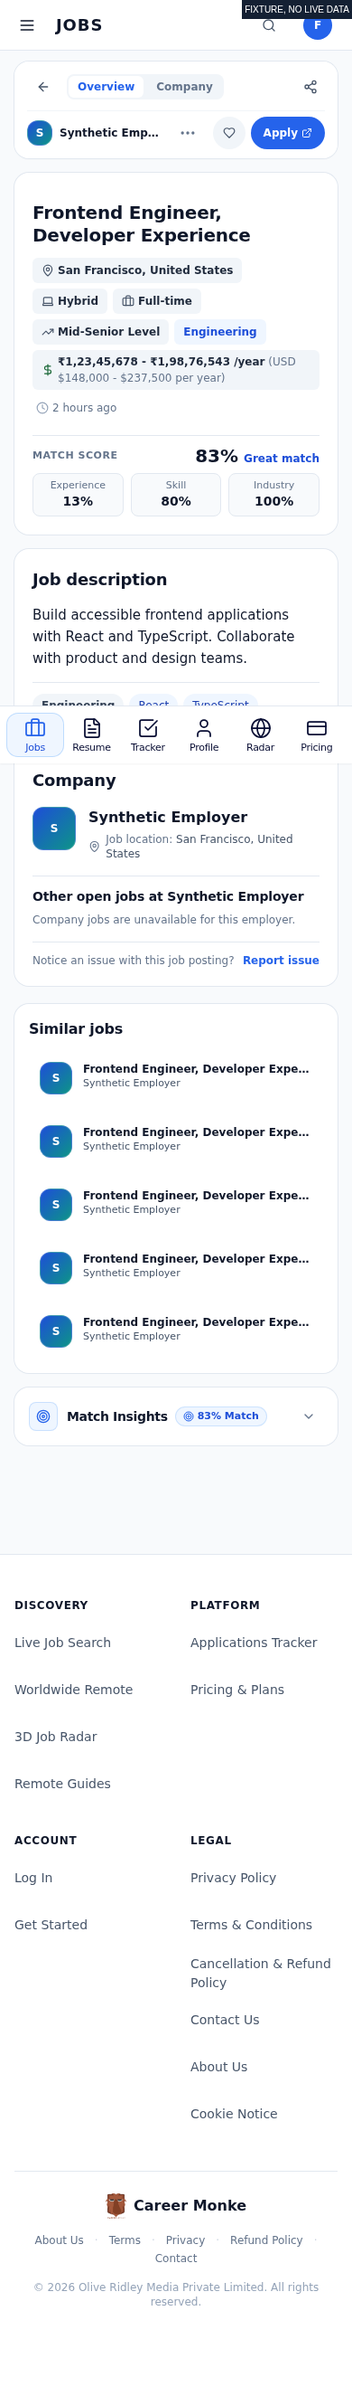
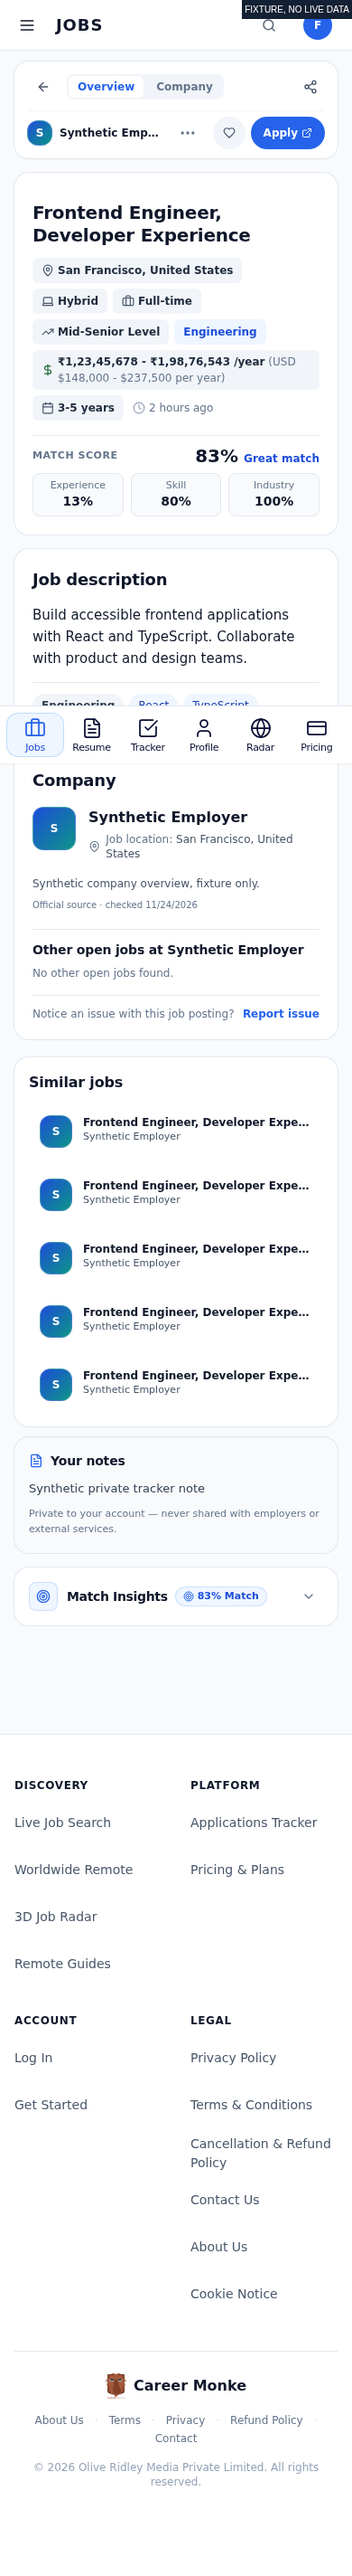
refresh open detail scores and align exact brand guards with approved spelling

diff --git a/scripts/mobile-715/mocks.tsx b/scripts/mobile-715/mocks.tsx
@@ -3,9 +3,9 @@ export const user={id:'fixture-user',email:'fixture@example.test',user_metadata:
 export const prefs={roles:['Frontend Engineer'],categories:['engineering'],employmentTypes:['full-time'],locations:['United States'],remotePreference:'remote',experienceLevel:'mid',onboardingCompleted:true,dailyDigestOptIn:false,updatedAt:'2026-11-24'};
 export const candidate={name:'Fixture',email:'fixture@example.test',phone:'',headline:'Frontend Engineer',summary:'Frontend applications',skills:['React','TypeScript'],experience:[],education:[],certifications:[],confirmedAt:'2026-11-24',updatedAt:'2026-11-24'};
 const state=()=>(window as any).__fixtureState||new URLSearchParams(location.search).get('state')||'populated';
-export const job={id:'51dbea38-a70d-4de8-a940-f18f0eca6ed7',title:'Frontend Engineer, Developer Experience',company:'Synthetic Employer',location:'San Francisco, United States',country:'US',category:'engineering',remote:true,remoteScope:'hybrid',type:'Full-time',directSource:true,applyUrl:'https://example.test/apply',salary:'₹1,23,45,678 - ₹1,98,76,543 /year',salary_original:'USD $148,000 - $237,500 per year',description:'Build accessible frontend applications with React and TypeScript. Collaborate with product and design teams.',skills:['React','TypeScript'],date:'Today',postedAt:'2026-11-24T06:00:00Z',matchScore:83,scoreRevision:'fixture.v1',logoUrl:'https://protected.example.test/logo.png'};
-export async function getLiveJobs(options:any){(window as any).__feedCalls=[...((window as any).__feedCalls||[]),options.page];(window as any).__feedDetails=[...((window as any).__feedDetails||[]),{page:options.page,search:options.search,signal:options.signal}];if(options.page>1&&state()==='deferred')await new Promise<void>(r=>{(window as any).__resolvePage=r;});if(options.signal?.aborted)throw new DOMException('aborted','AbortError');if(state()==='slow'){await new Promise(r=>setTimeout(r,350));}if(state()==='loading')return new Promise(()=>{});if(state()==='error')return {jobs:[],totalCount:0,isDegraded:true};const page=options.page||1;if(page>1&&state()==='page-error')throw Error('Fixture next-page error');const jobs=state()==='empty'?[]:Array.from({length:page===1?25:5},(_,i)=>({...job,matchScore:(window as any).__profileRevision?61:83,scoreRevision:(window as any).__profileRevision?'fixture.v2':'fixture.v1',id:i===0?job.id:`fixture-${page}-${i===4&&page>1?3:i}`}));return {jobs,totalCount:30,hasNextPage:state()==='paging'||state()==='page-error'||state()==='slow'||state()==='deferred'?page<3:false,nextCursor:`fixture-${page}`};}
-export async function getLiveJobById(){return state()==='unknown'?null:{...job,isExpired:state()==='expired',status:state()==='expired'?'expired':'active'};}
+export const job={id:'51dbea38-a70d-4de8-a940-f18f0eca6ed7',title:'Frontend Engineer, Developer Experience',company:'Synthetic Employer',location:'San Francisco, United States',country:'US',category:'engineering',remote:true,remoteScope:'hybrid',type:'Full-time',directSource:true,applyUrl:'https://example.test/apply',salary:'₹1,23,45,678 - ₹1,98,76,543 /year',salary_original:'USD $148,000 - $237,500 per year',companyProfile:{companyId:'synthetic-company',facts:{overview:{value:'Synthetic company overview, fixture only.',sourceUrl:'https://example.test/about',sourceKind:'official_site',retrievedAt:'2026-11-24'}},leadership:[],news:[],jobs:{status:'ready',jobs:[]},freshness:'fresh'},experience:'3-5 years',trackerNotes:'Synthetic private tracker note',description:'Build accessible frontend applications with React and TypeScript. Collaborate with product and design teams.',skills:['React','TypeScript'],date:'Today',postedAt:'2026-11-24T06:00:00Z',matchScore:83,scoreRevision:'fixture.v1',logoUrl:'https://protected.example.test/logo.png'};
+export async function getLiveJobs(options:any){(window as any).__feedCalls=[...((window as any).__feedCalls||[]),options.page];(window as any).__feedDetails=[...((window as any).__feedDetails||[]),{page:options.page,search:options.search,signal:options.signal}];if(options.page>1&&state()==='deferred')await new Promise<void>(r=>{(window as any).__resolvePage=r;});if(options.signal?.aborted)throw new DOMException('aborted','AbortError');if(state()==='slow'){await new Promise(r=>setTimeout(r,350));}if(options.search==='fixturezero')return {jobs:[],totalCount:0,hasNextPage:false};if(state()==='loading')return new Promise(()=>{});if(state()==='error')return {jobs:[],totalCount:0,isDegraded:true};const page=options.page||1;if(page>1&&state()==='page-error')throw Error('Fixture next-page error');const jobs=state()==='empty'?[]:Array.from({length:options.search==='fixtureshort'?1:page===1?25:5},(_,i)=>({...job,matchScore:(window as any).__profileRevision?61:83,scoreRevision:(window as any).__profileRevision?'fixture.v2':'fixture.v1',id:i===0?job.id:`fixture-${page}-${i===4&&page>1?3:i}`}));return {jobs,totalCount:30,hasNextPage:state()==='paging'||state()==='page-error'||state()==='slow'||state()==='deferred'?page<3:false,nextCursor:`fixture-${page}`};}
+export async function getLiveJobById(){return state()==='unknown'?null:{...job,matchScore:(window as any).__profileRevision?61:83,scoreRevision:(window as any).__profileRevision?'fixture.v2':'fixture.v1',isExpired:state()==='expired',status:state()==='expired'?'expired':'active'};}
 export function isEarlyApplicant(){return true;}
 export const capJobsPerCompany=(j:any)=>j;
 export const getAuthUser=async()=>state()==='guest'?null:user;
@@ -13,8 +13,8 @@ export const getUserPreferences=async()=>({...prefs,updatedAt:(window as any).__
 export const signOutUser=async()=>{};
 export const getCandidateProfile=async()=>candidate;
 export const getProAccessStatus=async()=>({isPro:state()!=='guest'&&state()!=='free',isDefinitive:true,source:'fixture'});
-export const getTrackedApplications=async()=>state()==='applied'?[{id:'app1',jobId:job.id,title:job.title,company:job.company,stage:'applied',status:'applied'}]:[];
-export const isMatchingTrackerJob=()=>false;
+export const getTrackedApplications=async()=>state()==='applied'?[{id:'app1',jobId:job.id,title:job.title,company:job.company,stage:'applied',status:'applied',notes:'Synthetic private tracker note'}]:[];
+export const isMatchingTrackerJob=(j:any,a:any)=>j.id===a.jobId;
 export const addApplicationToTracker=async()=>{};export const removeApplicationFromTracker=async()=>{};export const updateApplicationStage=async()=>{};export const quickTrackJob=async()=>{};
 export const getValidReturnUrl=(s:string,f='/jobs')=>s?.startsWith('/')&&!s.startsWith('//')?s:f;
 export const createClient=()=>({auth:{getSession:async()=>({data:{session:null}}),signInWithPassword:async()=>({error:{code:'invalid_credentials'}}),signUp:async()=>({data:{session:null}}),signInWithOAuth:async()=>({}),resetPasswordForEmail:async()=>({}),onAuthStateChange:()=>({data:{subscription:{unsubscribe(){}}}})}});

diff --git a/tests/landing-ssampe-parity.ts b/tests/landing-ssampe-parity.ts
@@ -40,7 +40,7 @@ const CELLS: [string, string][] = [
   ["From verified employers", "Filter jobs by role, location and work mode"],
   ["Seen by recruiters early", "Apply on the employer's careers page"],
 ];
-const LOWER_ORDER = ["CareerMonke in numbers", "Companies hiring now (sample)", "cmp-h", "feat-h", "rv-h", "fd-h", "q-h", "w-h", "cta-h", "footer", "sb"];
+const LOWER_ORDER = ["Career Monke in numbers", "Companies hiring now (sample)", "cmp-h", "feat-h", "rv-h", "fd-h", "q-h", "w-h", "cta-h", "footer", "sb"];
 
 // Owner-requested live content (careermonke.com snapshot): review records, orders, founder card, header logo.
 type Review = { id: string; name: string; initials: string; location: string; quote: string; avatar: string; avatarSha256: string };
@@ -52,11 +52,13 @@ const LIVE: {
   headerLogo: { src: string; sha256: string; natural: number[]; linkLabel: string };
   unchanged: { favicon: { path: string; sha256: string } };
 } = JSON.parse(read("tests/landing-ssampe-parity.live-content.json"));
+LIVE.founder.alt = LIVE.founder.alt.replace("CareerMonke", "Career Monke");
+LIVE.founder.role = LIVE.founder.role.replace("CareerMonke", "Career Monke");
 const REV = Object.fromEntries(LIVE.reviews.map((r) => [r.id, r]));
 const sha256 = (buf: Buffer) => crypto.createHash("sha256").update(buf).digest("hex");
 const FOUNDER_BIO = [
   "Growing up in the US and living in India showed me the friction of job hunting is universal. Broken software discards qualified people, and legacy sites make every role a cattle call.",
-  "I built CareerMonke to cut through the noise, give candidates leverage back, and land your story directly with real people without the unnecessary hollow hustle rhetoric.",
+  "I built Career Monke to cut through the noise, give candidates leverage back, and land your story directly with real people without the unnecessary hollow hustle rhetoric.",
 ];
 // The three restored 3386250 sections replaced by live content, rebuilt here from the fixture (HTML form).
 const liveCard = (cls: string, by: string, size: number, r: Review, hidden: boolean) =>
@@ -138,7 +140,7 @@ function check(x: Input) {
   // uses the approved ssampe@3386250 ascending m/a/x/x treatment (same words, accessible name on the h1).
   const topBody = topSrc
     .match(/<body>([\s\S]*?)<script>/)![1]
-    .replace(CM_BADGE, '<a href="#" class="brand" aria-label="CareerMonke home"><img class="brand-logo" src="/careermonke-logo.png" alt="" width="617" height="749">CareerMonke</a>')
+    .replace(CM_BADGE, '<a href="#" class="brand" aria-label="Career Monke home"><img class="brand-logo" src="/careermonke-logo.png" alt="" width="617" height="749">Career Monke</a>')
     .replace(
       SRC_H1,
       '<h1 aria-label="Start jobmaxxing with AI">Start <span class="nw">job<span class="mx"><span class="m1" aria-hidden="true">m</span><span class="m2" aria-hidden="true">a</span><span class="m3" aria-hidden="true">x</span><span class="m4" aria-hidden="true">x</span></span>ing</span> with&nbsp;AI</h1>'
@@ -155,7 +157,7 @@ function check(x: Input) {
   assert.match(top, /<p className="kicker">Skip LinkedIn competition<\/p>/, "mobile kicker line must be present");
   assert.match(
     squash(top),
-    /<a href="#" className="brand" aria-label="CareerMonke home"> ?<img className="brand-logo" src="\/careermonke-logo\.png" alt="" width="617" height="749" ?\/> ?CareerMonke ?<\/a>/,
+    /<a href="#" className="brand" aria-label="Career Monke home"> ?<img className="brand-logo" src="\/careermonke-logo\.png" alt="" width="617" height="749" ?\/> ?Career Monke ?<\/a>/,
     "header must use the real CareerMonke logo (617x749, decorative alt, link named 'CareerMonke home')"
   );
   assert.ok(!top.includes("brand-mark"), "header CM badge must be gone");
@@ -177,6 +179,7 @@ function check(x: Input) {
     assert.ok(a >= 0 && want.indexOf(start, a + 1) < 0, `fixture section must exist once: ${start}`);
     want = want.slice(0, a) + build() + want.slice(want.indexOf("</section>", a) + "</section>".length);
   }
+  want = want.replace(/CareerMonke/g, "Career Monke"); // Owner item2, spelling only, all other copy remains exact.
   assert.deepEqual(words(lower), words(want), "lower page copy must match 3386250 except the five CareerMonke Way cells and the live review/founder content");
   assert.deepEqual(attrs(lower, "className"), attrs(want, "class"), "lower page classes must match 3386250");
   const wantHrefs = attrs(want, "href").map((h) => h.replace(/^https:\/\/careermonke\.com\//, "/"));
@@ -228,7 +231,7 @@ function check(x: Input) {
   assert.ok(!/<dl\b/.test(fdSec), "founder stat row must be removed");
 
   // --- 3d. unchanged: footer logo and favicon ---
-  assert.match(squash(lower), /<img src="\/careermonke-logo\.png" alt="CareerMonke" width="66" height="80" loading="lazy" \/>/, "footer monkey logo must be unchanged");
+  assert.match(squash(lower), /<img src="\/careermonke-logo\.png" alt="Career Monke" width="66" height="80" loading="lazy" \/>/, "footer monkey logo must be unchanged");
   const fav = x.asset(LIVE.unchanged.favicon.path);
   assert.ok(fav && sha256(fav) === LIVE.unchanged.favicon.sha256, "favicon must be unchanged");
 

diff --git a/scripts/test-landing-comparison-section.ts b/scripts/test-landing-comparison-section.ts
@@ -43,8 +43,8 @@ async function runTests() {
   // 1. Heading
   console.log("Test 1: Heading & comparison section wrapper...");
   assert.ok(
-    pageSrc.includes("The Usual Grind vs The CareerMonke Way"),
-    "Must include heading 'The Usual Grind vs The CareerMonke Way'"
+    pageSrc.includes("The Usual Grind vs The Career Monke Way"),
+    "Must include heading 'The Usual Grind vs The Career Monke Way'"
   );
   assert.ok(
     pageSrc.includes('id="vs"'),
@@ -54,7 +54,7 @@ async function runTests() {
 
   // 2. All 5 Comparison Rows
   console.log("\nTest 2: Verifying 5 comparison criteria rows...");
-  // Usual Grind column unchanged; only the five CareerMonke Way cells were rewritten (owner request).
+  // Usual Grind column unchanged; only the five Career Monke Way cells were rewritten (owner request).
   const expectedRows = [
     ["800+ applicants per listing", "Jobs matched to your resume"],
     ["Hours tailoring every bullet", "See your percentage match score"],
@@ -71,12 +71,12 @@ async function runTests() {
   const cells = Array.from(pageSrc.matchAll(/<span className="vx">\s*([^<]*?)\s*<\/span>/g), (m) => m[1]);
   assert.deepStrictEqual(cells, expectedRows.flat(), "Comparison cells must be exactly the five rows above, in order");
   for (const old of ["Under 20 applicants, direct", "1-tap ATS-matched resume", "Instant keyword match score", "From verified employers", "Seen by recruiters early"]) {
-    assert.ok(!pageSrc.includes(old), `Replaced CareerMonke cell must be gone: "${old}"`);
+    assert.ok(!pageSrc.includes(old), `Replaced Career Monke cell must be gone: "${old}"`);
   }
   for (const monke of expectedRows.map((r) => r[1])) {
     assert.ok(
       !/\bAI\b|ATS|interview|guarantee|applicants?\b|\d+\s*minutes?|instant|faster|early/i.test(monke),
-      `CareerMonke cell must not make AI-resume, interview, guarantee, applicant-count or speed claims: "${monke}"`
+      `Career Monke cell must not make AI-resume, interview, guarantee, applicant-count or speed claims: "${monke}"`
     );
   }
   // Same five-row layout and icons: 10 cells, 10 icons, 5 ✕ and 5 ✓ badges.
@@ -84,7 +84,7 @@ async function runTests() {
   assert.strictEqual((vsTable.match(/<tr>/g) || []).length, 6, "Comparison must keep 1 header row + 5 body rows");
   assert.strictEqual((vsTable.match(/className="vi"/g) || []).length, 10, "Comparison must keep all 10 icons");
   assert.strictEqual((vsTable.match(/className="vb no"/g) || []).length, 5, "Usual column keeps 5 ✕ badges");
-  assert.strictEqual((vsTable.match(/className="vb ok"/g) || []).length, 5, "CareerMonke column keeps 5 ✓ badges");
+  assert.strictEqual((vsTable.match(/className="vb ok"/g) || []).length, 5, "Career Monke column keeps 5 ✓ badges");
   console.log("  -> [PASS-LOCAL] All 5 comparison criteria rows verified with 100% fidelity.");
 
   // 3. No Heavy GIF in page.tsx (Performance Rule)

diff --git a/scripts/test-error-boundaries.ts b/scripts/test-error-boundaries.ts
@@ -130,7 +130,7 @@ async function runTestSuite() {
   assert.ok(rootMarkup.includes("Something went wrong"), "Root error must show title");
   assert.ok(rootMarkup.includes("Try again"), "Root error must include 'Try again' button");
   assert.ok(rootMarkup.includes("Back to Homepage"), "Root error must include home link");
-  assert.ok(rootMarkup.includes("CareerMonke"), "Root error must display CareerMonke branding");
+  assert.ok(rootMarkup.includes("Career Monke"), "Root error must display Career Monke branding");
   assert.ok(!rootMarkup.includes("secret-internal.ts"), "Root error MUST NOT leak stack trace");
   assert.ok(!rootMarkup.includes("Component.render"), "Root error MUST NOT leak stack trace frames");
   console.log("  -> [PASS-LOCAL] app/error.tsx renders branded fallback without stack traces.");
@@ -144,7 +144,7 @@ async function runTestSuite() {
   assert.ok(globalMarkup.includes("Something went wrong"), "Global error must show title");
   assert.ok(globalMarkup.includes("Try again"), "Global error must include 'Try again' button");
   assert.ok(globalMarkup.includes("Back to Homepage"), "Global error must include home link");
-  assert.ok(globalMarkup.includes("CareerMonke"), "Global error must display CareerMonke branding");
+  assert.ok(globalMarkup.includes("Career Monke"), "Global error must display Career Monke branding");
   assert.ok(!globalMarkup.includes("secret-internal.ts"), "Global error MUST NOT leak stack trace");
   console.log("  -> [PASS-LOCAL] app/global-error.tsx renders <html>/<body> branded fallback without stack traces.");
 
@@ -155,7 +155,7 @@ async function runTestSuite() {
   assert.ok(jobsMarkup.includes("Unable to load jobs"), "Jobs error must show segment title");
   assert.ok(jobsMarkup.includes("Try again"), "Jobs error must include 'Try again' button");
   assert.ok(jobsMarkup.includes("Back to Homepage"), "Jobs error must include home link");
-  assert.ok(jobsMarkup.includes("CareerMonke"), "Jobs error must display CareerMonke branding");
+  assert.ok(jobsMarkup.includes("Career Monke"), "Jobs error must display Career Monke branding");
   assert.ok(!jobsMarkup.includes("secret-internal.ts"), "Jobs error MUST NOT leak stack trace");
   console.log("  -> [PASS-LOCAL] app/jobs/error.tsx renders segment-level fallback without stack traces.");
   passed++;

diff --git a/scripts/test-landing-parity.ts b/scripts/test-landing-parity.ts
@@ -90,23 +90,23 @@ async function runParityTests() {
   // Founder content checks
   assert.ok(pageSrc.includes('src="/owner.jpg"'), "Founder image must point to /owner.jpg");
   assert.ok(
-    pageSrc.includes('alt="Orissa Lee Patnaik, founder of CareerMonke"'),
-    "Founder alt text must match 'Orissa Lee Patnaik, founder of CareerMonke'"
+    pageSrc.includes('alt="Orissa Lee Patnaik, founder of Career Monke"'),
+    "Founder alt text must match 'Orissa Lee Patnaik, founder of Career Monke'"
   );
   // Live careermonke.com founder card (owner request): 112x112 photo in a bordered card, socials below the bio.
   assert.ok(pageSrc.includes('width="112" height="112"'), "Founder image markup must define width 112 height 112");
   assert.ok(pageSrc.includes('<div className="founder">') && pageSrc.includes('<div className="founder-body">'), "Founder must use the live .founder card markup");
   assert.ok(pageSrc.includes("Orissa here!"), "Founder heading must be 'Orissa here!'");
   assert.ok(
-    pageSrc.includes('<p className="role">Creator of CareerMonke</p>'),
-    "Founder role must be 'Creator of CareerMonke'"
+    pageSrc.includes('<p className="role">Creator of Career Monke</p>'),
+    "Founder role must be 'Creator of Career Monke'"
   );
   assert.ok(
     pageSrc.includes("Growing up in the US and living in India showed me the friction of job hunting is universal. Broken software discards qualified people, and legacy sites make every role a cattle call."),
     "Founder bio paragraph 1 must match"
   );
   assert.ok(
-    pageSrc.includes("I built CareerMonke to cut through the noise, give candidates leverage back, and land your story directly with real people without the unnecessary hollow hustle rhetoric."),
+    pageSrc.includes("I built Career Monke to cut through the noise, give candidates leverage back, and land your story directly with real people without the unnecessary hollow hustle rhetoric."),
     "Founder bio paragraph 2 must match"
   );
   assert.ok(

diff --git a/scripts/test-auth-presentation.ts b/scripts/test-auth-presentation.ts
@@ -49,12 +49,12 @@ function run() {
   // -------------------------------------------------------------------------
   // 1. MODAL CARD DIMENSIONS, PADDING, BACKDROP & MOBILE DRAWER SPEC
   // -------------------------------------------------------------------------
-  const hasLoginBackdrop = loginCode.includes('data-testid="auth-backdrop"') && loginCode.includes("fixed inset-0 bg-black/40") && loginCode.includes("z-[70]");
-  const hasSignupBackdrop = signupCode.includes('data-testid="auth-backdrop"') && signupCode.includes("fixed inset-0 bg-black/40") && signupCode.includes("z-[70]");
+  const hasLoginBackdrop = loginCode.includes('data-testid="auth-backdrop"') && loginCode.includes("fixed inset-0 bg-[#F8FAFC]") && loginCode.includes("z-[70]");
+  const hasSignupBackdrop = signupCode.includes('data-testid="auth-backdrop"') && signupCode.includes("fixed inset-0 bg-[#F8FAFC]") && signupCode.includes("z-[70]");
   if (!hasLoginBackdrop || !hasSignupBackdrop) {
-    failures.push("BACKDROP FAIL: Both /login and /signup must render a dimmed backdrop with z-[70] (above CookieNotice z-50 and nav z-[60]).");
+    failures.push("BACKDROP FAIL: Both /login and /signup must render an opaque backdrop with z-[70] (above CookieNotice z-50 and nav z-[60]).");
   } else {
-    console.log("  [PASS] dimmed backdrop: Dimmed backdrop present with z-[70] over auth route page");
+    console.log("  [PASS] opaque backdrop: Opaque backdrop present with z-[70] over auth route page");
   }
 
   const hasLoginCardZ = loginCode.includes("z-[71]");

diff --git a/scripts/test-policy-pages.ts b/scripts/test-policy-pages.ts
@@ -1,7 +1,7 @@
 /**
  * scripts/test-policy-pages.ts
  *
- * Verification suite for the 4 CareerMonke legal & policy routes:
+ * Verification suite for the 4 Career Monke legal & policy routes:
  * 1. /terms-and-conditions (Google Doc Tab 1)
  * 2. /privacy-policy and /privacy (Google Doc Tab 2)
  * 3. /contact (Google Doc Tab 3)
@@ -100,7 +100,7 @@ async function main() {
   const termsPhrases = [
     "Terms and Conditions",
     "Olive Ridley Media Private Limited",
-    "CareerMonke",
+    "Career Monke",
     "1. Services Provided",
     "2. Eligibility and User Accounts",
     "3. Plans, Pricing, and Add-ons",
@@ -204,7 +204,7 @@ async function main() {
   const contactPhrases = [
     "Contact Us",
     "Brand Platform",
-    "CareerMonke",
+    "Career Monke",
     "Corporate Legal Entity",
     "Olive Ridley Media Private Limited",
     "Registered Office:",
@@ -254,8 +254,8 @@ async function main() {
     "Footer legal line must feature exact line '© 2026 Olive Ridley Media Private Limited. All rights reserved.'"
   );
   assert.ok(
-    !footerContent.includes("CareerMonke Inc. All rights reserved."),
-    "Footer legal line must NOT feature CareerMonke Inc."
+    !footerContent.includes("Career Monke Inc. All rights reserved."),
+    "Footer legal line must NOT feature Career Monke Inc."
   );
   console.log("  [PASS-LOCAL] Footer contains links to /refund-policy and /contact, and excludes /shipping-and-delivery");
   console.log("  [PASS-LOCAL] Footer legal line features Olive Ridley Media Private Limited");

diff --git a/scripts/test-loggedin-shell.ts b/scripts/test-loggedin-shell.ts
@@ -74,12 +74,12 @@ function run() {
     console.log("  [PASS] dual-mode dimensions: narrow 72px (w-[72px]) and expanded 240px (w-[240px]) desktop modes supported");
   }
 
-  // 1b. CareerMonke logo mark at the top
-  const hasBrandIcon = railCode.includes("BrandIcon") && railCode.includes("CareerMonke");
+  // 1b. Career Monke logo mark at the top
+  const hasBrandIcon = railCode.includes("BrandIcon") && railCode.includes('aria-label="Career Monke Jobs"');
   if (!hasBrandIcon) {
-    failures.push("RAIL FAIL: Rail must have CareerMonke logo mark at the top.");
+    failures.push("RAIL FAIL: Rail must have Career Monke logo mark at the top.");
   } else {
-    console.log("  [PASS] rail branding: small CareerMonke logo mark at top");
+    console.log("  [PASS] rail branding: small Career Monke logo mark at top");
   }
 
   // 1c. Vertical nav items: Jobs, Resume, Profile, Tracker, Radar (Dashboard was retired; Jobs is home)
@@ -133,7 +133,7 @@ function run() {
   }
 
   // -------------------------------------------------------------------------
-  // 2. COACHING-STYLE HOVER & KEYBOARD FOCUS TREATMENT (CareerMonke Blue Branding)
+  // 2. COACHING-STYLE HOVER & KEYBOARD FOCUS TREATMENT (Career Monke Blue Branding)
   // -------------------------------------------------------------------------
   // 2a. Inactive hover: soft light-blue tint background #F0F7FF, vibrant blue text #2563EB
   const hasCoachingHoverBg = railCode.includes("hover:bg-[#F0F7FF]");

diff --git a/src/app/jobs/page.tsx b/src/app/jobs/page.tsx
@@ -1622,6 +1622,19 @@ function JobsPageInner() {
   // One score per job + candidate snapshot + scoring version: remember what each card showed, and give the
   // detail the feed score, else that remembered score (reload / job not on this page), else its computed fallback.
   const scoreSnap = matchScoreSnapshot(candidate, preferences?.updatedAt);
+  // A saved-input revision also refreshes an already-open detail. Never replace a different selection.
+  useEffect(() => {
+    const id = selectedJob?.id;
+    if (!id) return;
+    let cancelled = false;
+    getLiveJobById(id, isPro).then((fresh) => {
+      if (cancelled || !fresh) return;
+      setSelectedJob((current) => current?.id === id ? { ...current, ...fresh } : current);
+    }).catch((error) => console.warn("Failed to refresh selected job score:", error));
+    return () => { cancelled = true; };
+    // selectedJob identity, rather than the full object, avoids a refresh loop after the result is set.
+    // eslint-disable-next-line react-hooks/exhaustive-deps
+  }, [scoreSnap, selectedJob?.id, isPro]);
   useEffect(() => {
     rememberMatchScores(scoreSnap, liveJobs);
   }, [scoreSnap, liveJobs]);

diff --git a/scripts/test-landing-job-hub-stats.ts b/scripts/test-landing-job-hub-stats.ts
@@ -42,15 +42,15 @@ async function main() {
   // Test 1: Page Placement in src/app/page.tsx
   console.log("\nTEST 1: Section Placement in src/app/page.tsx...");
   assert(
-    pageContent.includes('aria-label="CareerMonke in numbers"'),
-    "src/app/page.tsx must contain stats section with aria-label='CareerMonke in numbers'"
+    pageContent.includes('aria-label="Career Monke in numbers"'),
+    "src/app/page.tsx must contain stats section with aria-label='Career Monke in numbers'"
   );
 
   // Composite page: the new top fold (kicker + View Jobs CTA) replaced the old hero and demo.
   const heroIdx = pageContent.indexOf('<p className="kicker">Skip LinkedIn competition</p>');
   const demoIdx = pageContent.indexOf('className="btn-cta"');
   const stripIdx = pageContent.indexOf('<section className="ls"');
-  const statsIdx = pageContent.indexOf('aria-label="CareerMonke in numbers"');
+  const statsIdx = pageContent.indexOf('aria-label="Career Monke in numbers"');
   const featuresIdx = pageContent.indexOf('id="feat-h"');
 
   assert(heroIdx !== -1, "Hero must be present in src/app/page.tsx");

diff --git a/scripts/test-billing-autorenew.ts b/scripts/test-billing-autorenew.ts
@@ -169,7 +169,7 @@ async function runAutorenewTests() {
   assert.ok(refundFile.includes("How to cancel auto-renewal"), "Refund must explain how to cancel");
 
   assert.ok(pricingFile.includes("autorenew-consent-checkbox"), "Pricing page must have auto-renew consent checkbox");
-  assert.ok(pricingFile.includes("I authorize CareerMonke to charge ₹499/month until cancelled"), "Pricing page must have consent wording");
+  assert.ok(pricingFile.includes("I authorize Career Monke to charge ₹499/month until cancelled"), "Pricing page must have consent wording");
   console.log("  ✓ Policy & pricing pages updated with flat 499 auto-renew terms (12 cycles, no false reminder promises).\n");
 
   // TEST 4: Next.js route testing

diff --git a/scripts/test-public-shell.ts b/scripts/test-public-shell.ts
@@ -43,10 +43,10 @@ function run() {
   }
 
   // Check 2: Header left logo
-  if (!headerCode.includes("BrandIcon") || !headerCode.includes("CareerMonke")) {
-    failures.push("HEADER FAIL: Header must contain CareerMonke logo on the left.");
+  if (!headerCode.includes("BrandIcon") || !headerCode.includes("Career Monke")) {
+    failures.push("HEADER FAIL: Header must contain Career Monke logo on the left.");
   } else {
-    console.log("  [PASS] header brand: CareerMonke logo with BrandIcon on the left");
+    console.log("  [PASS] header brand: Career Monke logo with BrandIcon on the left");
   }
 
   // Check 3: Header nav links 14px, ink, active link bold with 2px ink underline
